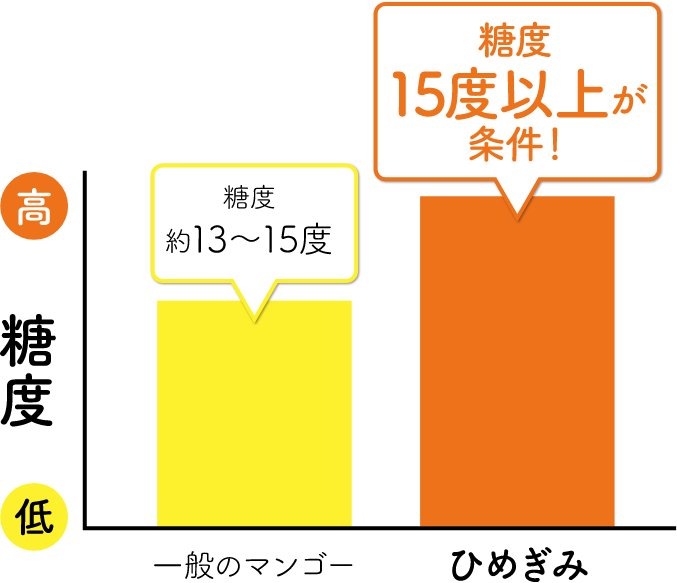
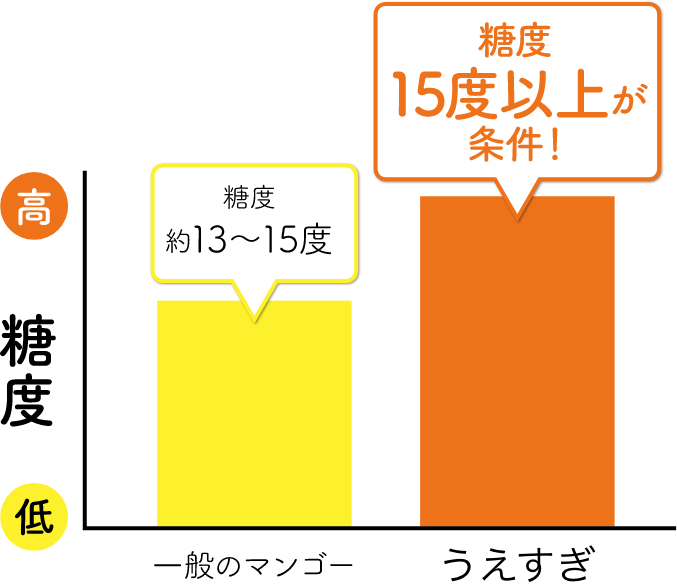
image change

diff --git a/public/index.html b/public/index.html
@@ -81,7 +81,7 @@
           <p>栄養たっぷりの水を含んだ土壌、<br>
             木々をなでるように吹く風、<br>
             せっせと花粉を運ぶミツバチたち。</p>
-          <p>日の光をめいっぱい浴びた「ひめぎみ」は<br>
+          <p>日の光をめいっぱい浴びた「うえすぎ」は<br>
             沖縄県本島北部 大宜味村で育まれた大自然とともに生まれました。</p>
           <p>44年もの月日の中で培った栽培技術は、<br>
             農薬の使用を極力抑えた有機肥料栽培。</p>
@@ -100,7 +100,7 @@
     <section id="features">
       <div class="section-sub-area">
         <div class="inner">
-          <h2 class="section-title">沖縄県の大自然が生んだ高品質マンゴー <br>「ひめぎみ」6つの特徴</h2>
+          <h2 class="section-title">沖縄県の大自然が生んだ高品質マンゴー <br>「うえすぎ」6つの特徴</h2>
           <div class="flex">
             <div class="features-sub-section">
               <a href="#point1">
@@ -209,7 +209,7 @@
             <figure class="visual"><img src="images/Point2@2x.png" alt="カットマンゴー"></figure>
             <div class="paragraph">
               <h3 class="pc-point">厳選された大玉<br>高品質沖縄産マンゴー</h3>
-              <p>沖縄県本島北部にある大宜味村の農園で育まれています。 樹上で熟させ、一つ一つを手摘みで大玉なマンゴーを選別した上で収穫。
+              <p>沖縄県本島北部にある宜野座村の農園で育まれています。 樹上で熟させ、一つ一つを手摘みで大玉なマンゴーを選別した上で収穫。
                 なおかつ、光糖度センサーで高品質のマンゴーのみがひめぎみとして選ばれ、箱に詰められています。</p>
             </div>
           </div>
@@ -296,7 +296,7 @@
             <figure class="visual"><img src="images/Point2@2x.png" alt="マンゴー"></figure>
             <div class="paragraph">
               <h3 class="pc-point">大手百貨店でも取り扱われる<br>最高級の品種</h3>
-              <p>ひめぎみを生産する「ファインフルーツおおぎみ」で育てられたマンゴーは、
+              <p>うえすぎを生産する「パッション宜野座」で育てられたマンゴーは、
                 長期の育成で得たノウハウに裏付けされた味や品質が評価され、長年大手百貨店や高級果物専門店で取り扱われております。</p>
             </div>
           </div>
@@ -327,7 +327,7 @@
             <div class="paragraph">
               <h3 class="pc-point">ギフトにも自分のご褒美にも<br>選べるプラン</h3>
               <p>ギフト用やご自身用に合わせたプランを提供しております。ギフト用としては、味わいはもちろん、色や形も整っている「秀品」・「優品」を。 
-                ご自身やご家族へのご褒美用としては低価格でひめぎみを堪能いただける 「おつかれちゃん」をお勧めしております。</p>
+                ご自身やご家族へのご褒美用としては低価格でうえすぎを堪能いただける 「おつかれちゃん」をお勧めしております。</p>
             </div>
           </div>
         </div>
@@ -350,8 +350,8 @@
             <figure><img src="images/mango_photo_3@2x.png" alt="マンゴー">
               <figcaption class="gift-name">秀品</figcaption>
             </figure>
-            <p>生まれは沖縄県本島北部 大宜味村。日の光をめいっぱい浴びて育ち、農薬の使用をできる限り抑え、一つ一つ箱入り娘のように大切に育てた最高品質の「ひめぎみ」です。<br> 
-              赤く染まったほっぺたが可愛い「ひめぎみ 秀品」を沖縄の伝統工芸「琉球びんがた」模様の専用ギフト箱で包みこみました。 <br>
+            <p>生まれは沖縄県本島北部 大宜味村。日の光をめいっぱい浴びて育ち、農薬の使用をできる限り抑え、一つ一つ箱入り娘のように大切に育てた最高品質の「うえすぎ」です。<br> 
+              赤く染まったほっぺたが可愛い「うえすぎ 秀品」を沖縄の伝統工芸「琉球びんがた」模様の専用ギフト箱で包みこみました。 <br>
               あなたの大切な方へ笑顔と美味しさをお届けいたします。<br>ぜひお中元などの贈り物にご利用ください。</p>
             <div class="item-info">
               <div class="grid">
@@ -375,7 +375,7 @@
             <figure><img src="images/mango_photo_3@2x.png" alt="マンゴー">
               <figcaption class="gift-name">優品</figcaption>
             </figure>
-            <p>生まれは沖縄県本島北部 大宜味村。日の光をめいっぱい浴びて育ち、農薬の使用を出来る限り抑え、一つ一つ箱入り娘のように大切に育てた高品質の「ひめぎみ」です。
+            <p>生まれは沖縄県本島北部 宜野座村。日の光をめいっぱい浴びて育ち、農薬の使用を出来る限り抑え、一つ一つ箱入り娘のように大切に育てた高品質の「うえすぎ」です。
               ほっぺたの赤身は秀品と比べると少なくなりますが、味はまったく遜色なしの「ひめぎみ 優品」を沖縄の伝統工芸「琉球びんがた」模様の専用ギフト箱で包みました。
               あなたの大切な方へ笑顔と美味しさをお届けいたします。ぜひお中元などの贈り物にご利用ください。</p>
             <div class="item-info">
@@ -422,8 +422,8 @@
         </figure>
         <div class="about-article">
           <h2 class="section-title">「うえすぎ」を生産する<br>ファインフルーツぎのざについて</h2>
-          <p class="about-content">ひめぎみは沖縄県の本島北部、大宜味村にある有限会社ファインフルーツおおぎみで生産しています。<br>
-            44年間と長くマンゴー作りに取り組んでいる有限会社ファインフルーツおおぎみでは土壌作りをこだわり、
+          <p class="about-content">ひめぎみは沖縄県の本島北部、宜野座村にある有限会社ファインフルーツぎのざで生産しています。<br>
+            44年間と長くマンゴー作りに取り組んでいる有限会社フファインフルーツぎのざでは土壌作りをこだわり、
             濃厚な味や香りを実現した素晴らしいマンゴーを育て続けています。<br> 
             ひとつひとつ大事に育てあげたマンゴーを農家が厳選する最も美味しい食べごろに合わせて出荷してくれます。</p>
         </div>

diff --git a/public/css/style.css b/public/css/style.css
@@ -243,7 +243,7 @@ section:not(:first-of-type) {
   top: 15px;
   right: 23px;
   content: '';
-  background: url('/public/images/arrow-icon.svg') no-repeat;
+  background: url('../images/arrow-icon.svg') no-repeat;
   background-size: 100%;
   z-index: 1;
   width: 18px;
@@ -542,7 +542,7 @@ header .nav-footer .dummy-space {
   ----- メインビジュアル -----
 */
 .mv {
-  background: url('/public/images/kv@2x.png') no-repeat;
+  background: url('../images/kv@2x.png') no-repeat;
   height: calc(100vh - 100px);
   width: 100%;
   background-size: cover;
@@ -581,7 +581,7 @@ header .nav-footer .dummy-space {
 */
 /* コンセプト */
 #concept {
-  background: url('/public/images/bg_back@2x-min.png') no-repeat;
+  background: url('../images/bg_back@2x-min.png') no-repeat;
   background-size: cover;
   width: 100%;
   padding: 150px 120px;
@@ -749,7 +749,7 @@ header .nav-footer .dummy-space {
   width: 50px;
   height: 50px;
   border-radius: 50%;
-  background: url('/public/images/down-icon@2x.png') no-repeat;
+  background: url('../images/down-icon@2x.png') no-repeat;
   background-size: cover;
   position: absolute;
   bottom: -25px;
@@ -765,7 +765,7 @@ header .nav-footer .dummy-space {
 }
 
 #features .features-point .back {
-  background: url('/public/images/bg_back@2x-min.png') no-repeat;
+  background: url('../images/bg_back@2x-min.png') no-repeat;
   background-size: cover;
   position: absolute;
   top: 0;
@@ -930,7 +930,7 @@ header .nav-footer .dummy-space {
   top: 83px;
   right: -35px;
   content: '';
-  background: url('/public/images/catting-arrow.svg') no-repeat;
+  background: url('../images/catting-arrow.svg') no-repeat;
   width: 20px;
   height: 22px;
 }
@@ -1082,7 +1082,7 @@ header .nav-footer .dummy-space {
 
 /* アバウト */
 #about {
-  background: url('/public/images/about-back.jpg') no-repeat;
+  background: url('../images/about-back.jpg') no-repeat;
   background-size: cover;
 }
 
@@ -1223,7 +1223,7 @@ header .nav-footer .dummy-space {
 
 /* 予約 */
 #reservation {
-  background: url('/public/images/bg_back@2x-min.png') no-repeat;
+  background: url('../images/bg_back@2x-min.png') no-repeat;
   background-size: cover;
   padding: 100px 0;
 }
@@ -1265,7 +1265,7 @@ header .nav-footer .dummy-space {
   top: 30px;
   right: -35px;
   content: '';
-  background: url('/public/images/catting-arrow.svg') no-repeat;
+  background: url('../images/catting-arrow.svg') no-repeat;
   width: 20px;
   height: 22px;
 }
@@ -1389,7 +1389,7 @@ header .nav-footer .dummy-space {
   ----- サイド -----
 */
 aside {
-  background: url('/public/images/bg_back@2x-min.png') no-repeat;
+  background: url('../images/bg_back@2x-min.png') no-repeat;
   background-size: cover;
   padding: 100px 0;
 }
@@ -1483,7 +1483,7 @@ footer br {
 
 #page-top a {
   display: block;
-  background: url('/public/images/Pagetop-btn.svg') no-repeat;
+  background: url('../images/Pagetop-btn.svg') no-repeat;
   color: #ED721A;
   width: 24px;
   height: 115px;
@@ -2024,9 +2024,9 @@ footer br {
     overflow-y: scroll;
   }
   .mv {
-    background-image: url('/public/images/kv@2x.png'), -webkit-gradient(linear, left bottom, left top, color-stop(0, rgba(255, 255, 255, 0)), color-stop(40%, rgba(255, 255, 255, 0.4)), color-stop(70%, rgba(255, 255, 255, 0.7)), color-stop(80%, white));
-    background-image: url('/public/images/kv@2x.png'), -webkit-linear-gradient(bottom, rgba(255, 255, 255, 0) 0, rgba(255, 255, 255, 0.4) 40%, rgba(255, 255, 255, 0.7) 70%, white 80%);
-    background-image: url('/public/images/kv@2x.png'), linear-gradient(to top, rgba(255, 255, 255, 0) 0, rgba(255, 255, 255, 0.4) 40%, rgba(255, 255, 255, 0.7) 70%, white 80%);
+    background-image: url('../images/kv@2x.png'), -webkit-gradient(linear, left bottom, left top, color-stop(0, rgba(255, 255, 255, 0)), color-stop(40%, rgba(255, 255, 255, 0.4)), color-stop(70%, rgba(255, 255, 255, 0.7)), color-stop(80%, white));
+    background-image: url('../images/kv@2x.png'), -webkit-linear-gradient(bottom, rgba(255, 255, 255, 0) 0, rgba(255, 255, 255, 0.4) 40%, rgba(255, 255, 255, 0.7) 70%, white 80%);
+    background-image: url('../images/kv@2x.png'), linear-gradient(to top, rgba(255, 255, 255, 0) 0, rgba(255, 255, 255, 0.4) 40%, rgba(255, 255, 255, 0.7) 70%, white 80%);
     background-blend-mode: screen;
     height: calc(100vh - 150px);
   }
@@ -2197,7 +2197,7 @@ footer br {
     margin-right: 0;
   }
   #reservation .reservation-area .inner .flex .reservation-sub-section::after {
-    background: url('/public/images/catting-arrow-down.svg') no-repeat;
+    background: url('../images/catting-arrow-down.svg') no-repeat;
     top: auto;
     bottom: -35px;
     left: 50%;
@@ -2235,7 +2235,7 @@ footer br {
     left: 50%;
     -webkit-transform: translate(-50%, 0);
     transform: translate(-50%, 0);
-    background: url('/public/images/accordion-arrow.svg') no-repeat;
+    background: url('../images/accordion-arrow.svg') no-repeat;
     background-size: cover;
     width: 18px;
     height: 12px;
@@ -2412,7 +2412,7 @@ footer br {
     right: 50%;
     -webkit-transform: translate(-50%, 0);
     transform: translate(-50%, 0);
-    background: url('/public/images/catting-arrow-down.svg') no-repeat;
+    background: url('../images/catting-arrow-down.svg') no-repeat;
   }
   #features .features-point-sub .flex .features-point-sub-section .visual {
     width: 80%;
